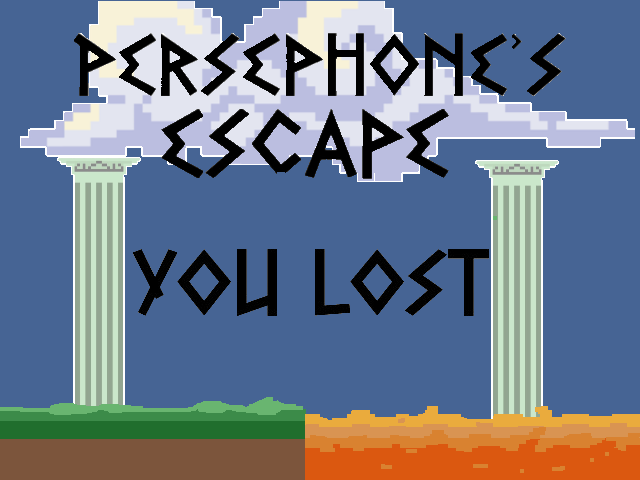
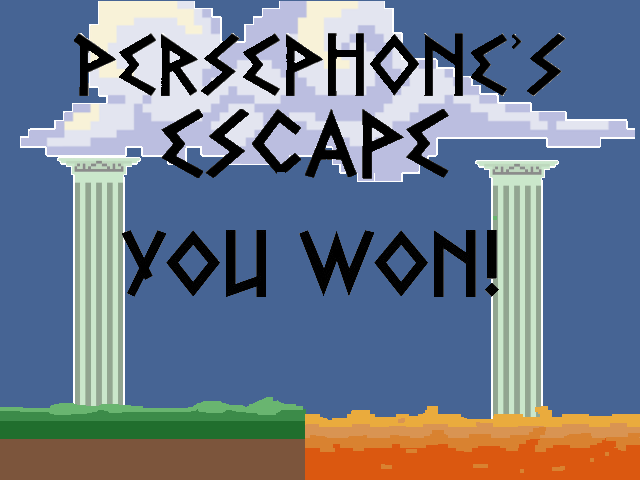
added win screen, not showing up

Changed region(s): [[0.4688, 0.4688, 0.7812, 0.6562], [0.1875, 0.4688, 0.4375, 0.6562]]

diff --git a/minimalist-game-framework-core/Game/Game.cs b/minimalist-game-framework-core/Game/Game.cs
@@ -44,12 +44,15 @@ class Game
     List<Slides> slides;
     public static int enemiesKilled = 0;
     public Boolean playerDeath = false;
-    Texture background;
+    public static Boolean bossDeath = false;
+    private Texture background;
     private int numGreyNPC;
     private Texture loseScreenTexture;
+    private Texture winScreenTexture;
     private bool debugMode = false;
     private float deathTime = 0;
 
+    //private List<Texture> backgrounds;
     public Game()
     {
         map = new Map();
@@ -64,15 +67,23 @@ class Game
         loadLevel("Game\\levelPractice.txt");
 
         loseScreenTexture = Engine.LoadTexture(System.IO.Path.GetFullPath("Assets\\LoseScreen.png"));
+        winScreenTexture = Engine.LoadTexture(System.IO.Path.GetFullPath("Assets\\WinScreen.png"));
+
         bgMusic = Engine.LoadMusic("bgm.mp3");
 
         CollisionManager.AddObj("player", player);
         CollisionManager.AddObj("spear", spear);
 
         localCamera = new Camera();
-        background = Engine.LoadTexture(System.IO.Path.GetFullPath("Assets\\background.jpeg"));
+        background = Engine.LoadTexture(System.IO.Path.GetFullPath("Assets\\middleLevel.jpeg"));
+        /*
+        backgrounds = new List<Texture> { Engine.LoadTexture(System.IO.Path.GetFullPath("Assets\\tartarus.jpeg")),
+                       Engine.LoadTexture(System.IO.Path.GetFullPath("Assets\\middleLevel.jpeg")),
+                       Engine.LoadTexture(System.IO.Path.GetFullPath("Assets\\hadesCastle.jpeg")),
+                       Engine.LoadTexture(System.IO.Path.GetFullPath("Assets\\WinScreen.png"))};
+        */
     }
-    //
+    
 
     public void Update()
     {
@@ -185,8 +196,12 @@ class Game
             {
                 deathTime += Engine.TimeDelta;
                 Engine.DrawTexture(loseScreenTexture, new Vector2(0, 0), size: new Vector2(640, 480));
+            } else if (bossDeath)
+            {
+                deathTime += Engine.TimeDelta;
+                Engine.DrawTexture(winScreenTexture, new Vector2(0, 0), size: new Vector2(640, 480));
             }
-            if (playerDeath && deathTime > 3)
+            if ((playerDeath || bossDeath ) && deathTime > 2)
             {
                 deathTime = 0;
                 entities.Clear();
@@ -199,6 +214,7 @@ class Game
                 loadLevel("Game\\reload.txt");
                 loadLevel("Game\\levelPractice.txt");
                 playerDeath = false;
+                bossDeath = false;
                 showStartMenu = true;
                 Game.player.setCharge(50);
                 

diff --git a/minimalist-game-framework-core/Game/Player.cs b/minimalist-game-framework-core/Game/Player.cs
@@ -120,10 +120,11 @@ internal class Player : Entity
             }
             else
             {
-                position.X += collisionDetected.getBlock().getVelcoity().X;
+                //comparison
+                playerVelocity.X += collisionDetected.getBlock().getVelcoity().X;
             }
             playerVelocity.Y = 0;
-        } else if (position.Y > floorY - size.Y) {
+        } else if (position.Y > floorY - size.Y) { //level seperators
             //position.Y = floorY - size.Y;
             playerVelocity.Y = 0; // Stop downward movement
         } else if (!CollisionManager.checkBlockCollision(this, new Vector2(0, 2), secondsElapsed).getCollided() && position.Y + size.Y < floorY )

diff --git a/minimalist-game-framework-core/Game/Fire.cs b/minimalist-game-framework-core/Game/Fire.cs
@@ -82,7 +82,7 @@ internal class Fire : Entity
     {
         Console.WriteLine("Handling charge decrease");
         int currentCharge = Game.player.chargeBar.getCharge();
-        int newCharge = currentCharge - 5; // Decrease charge by 1 (adjust as needed)
+        int newCharge = currentCharge - 1; // Decrease charge by 1 (adjust as needed)
         Game.player.chargeBar.setCharge(newCharge); // Update player's charge
     }
 

diff --git a/minimalist-game-framework-core/Game/Boss.cs b/minimalist-game-framework-core/Game/Boss.cs
@@ -141,12 +141,13 @@ internal class Boss : Entity
         else
         {
 
+            Game.bossDeath = true;
             Game.entities.Remove(this);
-            if (dead)
+            if (Game.bossDeath)
             {
                 Game.enemiesKilled++;
             }
-            dead = true;
+            
             //
         }
     }
